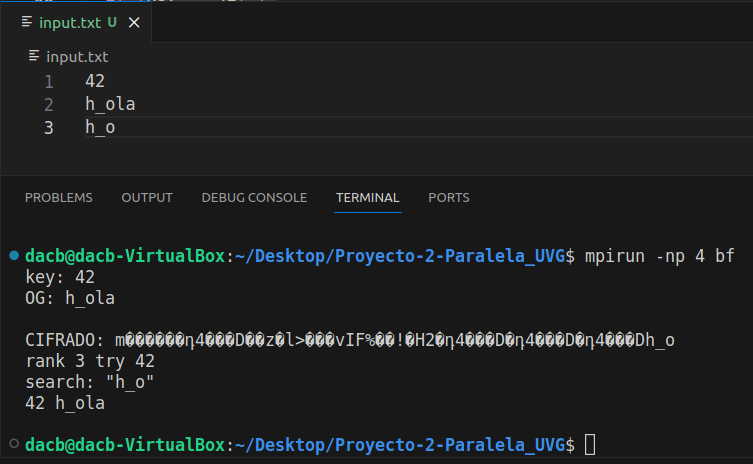
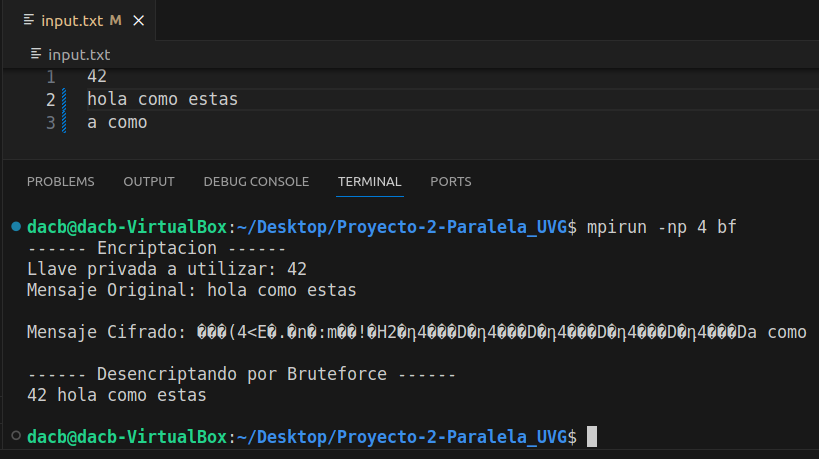
code cleanning

diff --git a/bf_txt.c b/bf_txt.c
@@ -11,10 +11,6 @@
 #include <openssl/des.h>
 
 void decrypt(long key, char *ciph, int len) {
-  // if (key < 100) {
-  //   printf("key %ld\n", key);
-  // }
-    
     DES_key_schedule keysched;
     DES_cblock des_key;
 
@@ -31,10 +27,6 @@ void decrypt(long key, char *ciph, int len) {
     // Decrypt the data
     for (int i = 0; i < len; i += 8) {
         DES_ecb_encrypt((DES_cblock *)(ciph + i), (DES_cblock *)(ciph + i), &keysched, DES_DECRYPT);
-    }
-
-    if (key == 42){
-      printf("key %ld ciph: %s\n", key, ciph);
     }
 }
 
@@ -59,15 +51,9 @@ void encrypt(long key, char *ciph, int len) {
 }
 
 int tryKey(long key, char *ciph, int len, char search[]){
-  // if (key == 42){
-  //   printf("key %ld ciph: %s\n", key, ciph);
-  // }
   char temp[len+1];
   memcpy(temp, ciph, len);
   temp[len]=0;
-  if (key == 42) {
-    printf("search: \"%s\"\n", search);
-  }
   decrypt(key, temp, len);
   return strstr((char *)temp, search) != NULL;
 }
@@ -89,59 +75,55 @@ int main(int argc, char *argv[]){ //char **argv
   MPI_Comm_rank(comm, &id);
 
   // Lectura de txt
+  char inputFileName[] = "input.txt"; // Nombre del archivo de entrada
+  char search[64]; // Cadena de búsqueda
 
-  // if (id == 0) {
-    char inputFileName[] = "input.txt"; // Nombre del archivo de entrada
-    char search[64]; // Cadena de búsqueda
+  // Abrir el archivo de entrada
+  FILE *fileIn = fopen(inputFileName, "r");
+  if (fileIn == NULL) {
+    perror("Error al abrir el archivo de entrada");
+    return 1;
+  }
 
-    // Abrir el archivo de entrada
-    FILE *fileIn = fopen(inputFileName, "r");
-    if (fileIn == NULL) {
-      perror("Error al abrir el archivo de entrada");
-      return 1;
-    }
-
-    // Leer la clave
-    if (fgets(keyLine, sizeof(keyLine), fileIn) == NULL) {
-      perror("Error al leer la clave del archivo");
-      fclose(fileIn);
-      return 1;
-    }
-
-    long key = atol(keyLine); // Convertir la clave a long
-    if (id == 0){
-      printf("key: %ld\n", key);
-    }
-
-    // Leer el texto cifrado
-    if (fgets(cipherLine, sizeof(cipherLine), fileIn) == NULL) {
-      perror("Error al leer el texto cifrado del archivo");
-      fclose(fileIn);
-      return 1;
-    }
-
-    // Leer cadena de busqueda
-    if (fgets(search, sizeof(search), fileIn) == NULL) {
-      perror("Error al leer el texto cifrado del archivo");
-      fclose(fileIn);
-      return 1;
-    }
-
-    if (id == 0){
-      printf("OG: %s\n", cipherLine);
-    }
-
-    // Cifrar texto
-    char buffer[512];
-    encrypt(key, cipherLine, sizeof(cipherLine));
-
-    // printf("CIFRADO: %s\n", cipherLine);
-
+  // Leer la clave
+  if (fgets(keyLine, sizeof(keyLine), fileIn) == NULL) {
+    perror("Error al leer la clave del archivo");
     fclose(fileIn);
-  // }
+    return 1;
+  }
+
+  long key = atol(keyLine); // Convertir la clave a long
+  if (id == 0){
+    printf("------ Encriptacion ------\n");
+    printf("Llave privada a utilizar: %ld\n", key);
+  }
+
+  // Leer el texto cifrado
+  if (fgets(cipherLine, sizeof(cipherLine), fileIn) == NULL) {
+    perror("Error al leer el texto cifrado del archivo");
+    fclose(fileIn);
+    return 1;
+  }
+
+  // Leer cadena de busqueda
+  if (fgets(search, sizeof(search), fileIn) == NULL) {
+    perror("Error al leer el texto cifrado del archivo");
+    fclose(fileIn);
+    return 1;
+  }
 
   if (id == 0){
-    printf("CIFRADO: %s\n", cipherLine);
+    printf("Mensaje Original: %s\n", cipherLine);
+  }
+
+  // Cifrar texto
+  char buffer[512];
+  encrypt(key, cipherLine, sizeof(cipherLine));
+  fclose(fileIn);
+
+  if (id == 0){
+    printf("Mensaje Cifrado: %s\n", cipherLine);
+    printf("\n------ Desencriptando por Bruteforce ------\n");
   }
 
   MPI_Barrier(MPI_COMM_WORLD); // Barrera MPI
@@ -161,9 +143,6 @@ int main(int argc, char *argv[]){ //char **argv
   MPI_Irecv(&found, 1, MPI_LONG, MPI_ANY_SOURCE, MPI_ANY_TAG, comm, &req);
 
   for(int i = mylower; i<myupper && (found==0); ++i){
-    if (i == 42) {
-      printf("rank %d try %d\n", id, i);
-    }
     if(tryKey(i, (char *)cipherLine, ciphlen, search)){
       found = i;
       for(int node=0; node<N; node++){
